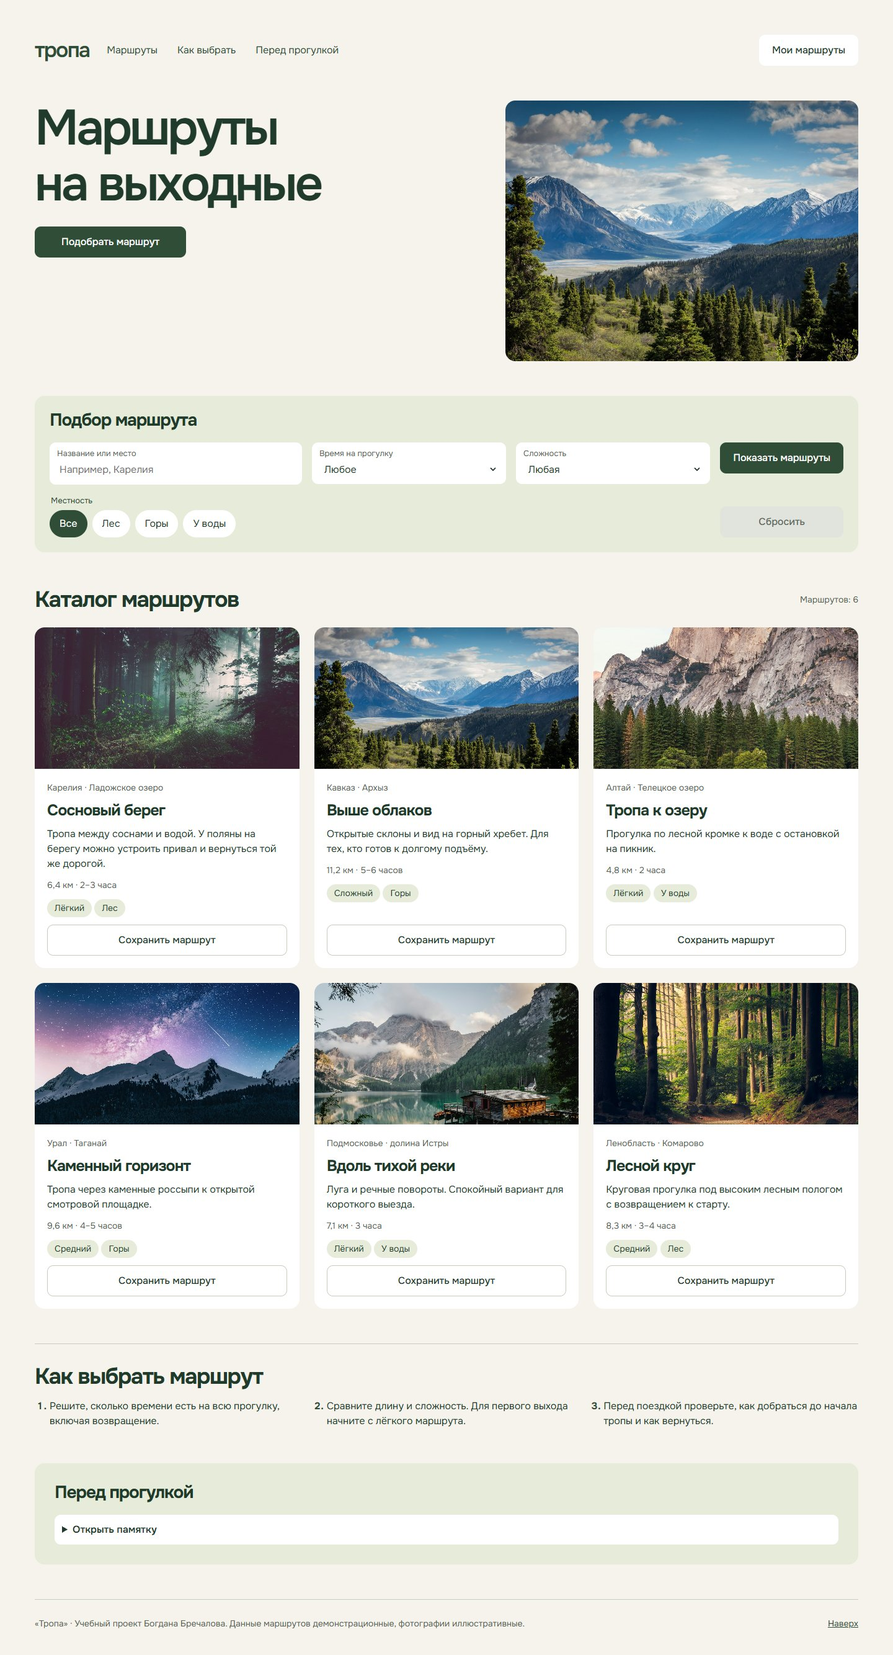
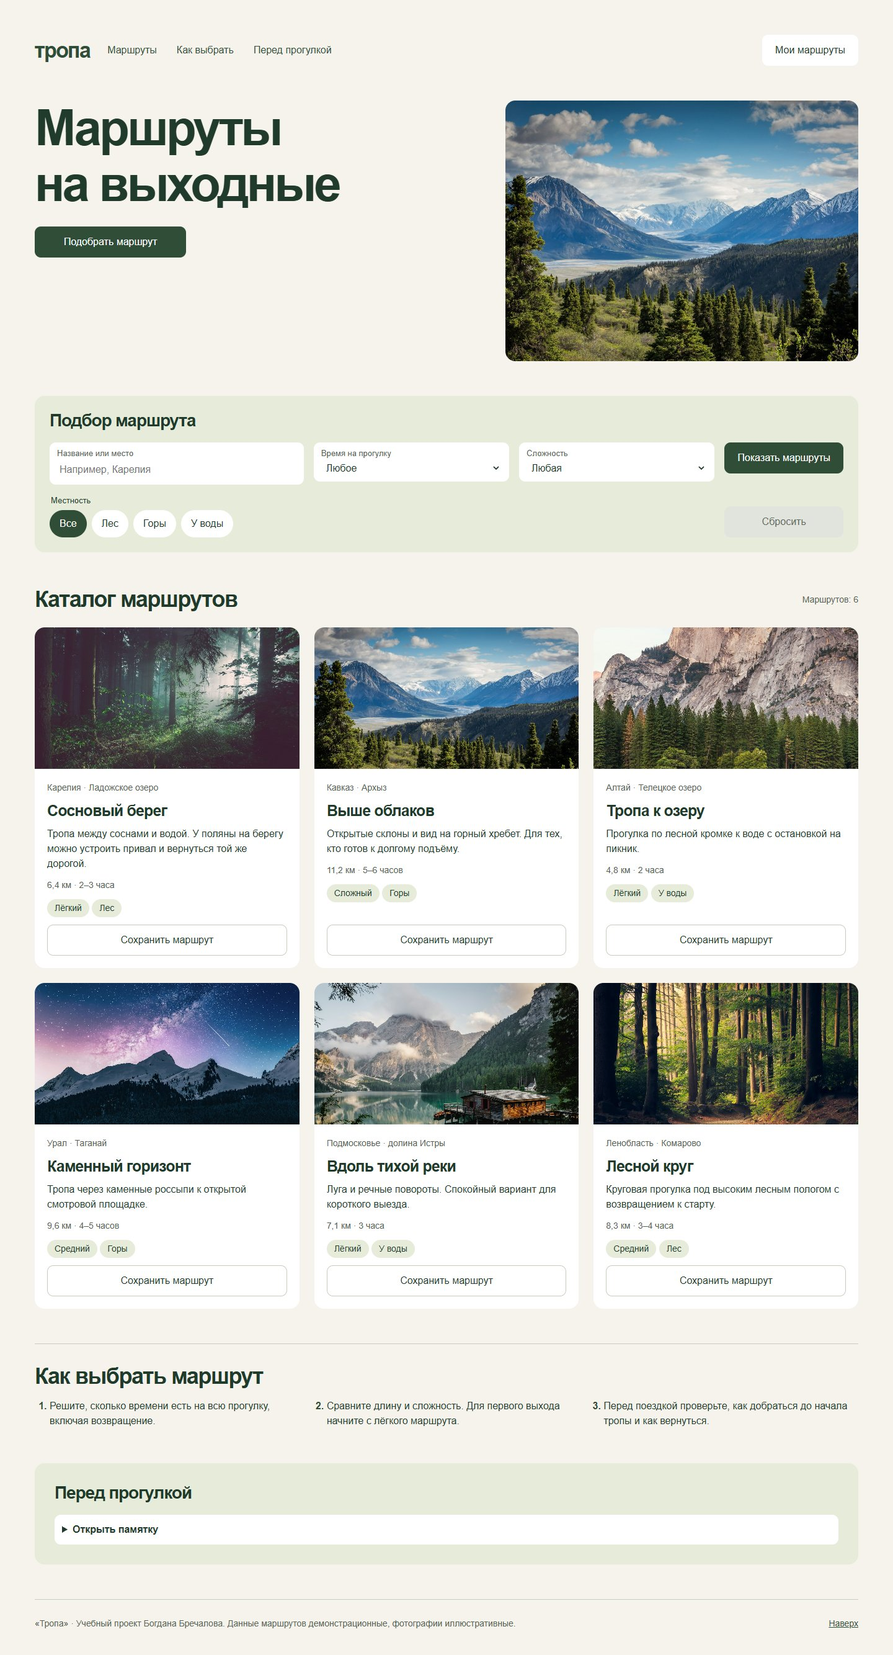
Исправить шрифт и добавить материалы проекта

diff --git a/css/style.css b/css/style.css
@@ -1,10 +1,3 @@
-@font-face {
-  font-family: Onest;
-  src: url("../fonts/onest.ttf") format("truetype");
-  font-weight: 100 900;
-  font-display: swap;
-}
-
 :root {
   --paper: #f5f3eb;
   --ink: #203b2b;
@@ -14,7 +7,7 @@
   --line: #c5cdbf;
   --white: #fff;
   --error: #95332c;
-  --font: Onest, Arial, sans-serif;
+  --font: Arial, "Segoe UI", sans-serif;
   --sm: 12px;
   --gap: 24px;
   --section: 56px;
@@ -304,7 +297,7 @@ button[type="reset"] {
 
 #count, .place, .facts {
   color: var(--muted);
-  font-size: 14px ;
+  font-size: 14px;
 }
 
 .cards {

diff --git a/ai-log.md b/ai-log.md
@@ -1,0 +1,107 @@
+# Отчёт об использовании ИИ
+
+**Проект:** «Тропа»  
+**Автор:** Бречалов Богдан  
+**Период работы:** 2 октября - 27 ноября 2026 года  
+**Инструмент:** OpenAI Codex
+
+Промпты ниже составлены для отчёта и кратко передают задачи, которые решались при разработке. Это не дословная выгрузка переписки.
+
+## Примерные промпты и результаты
+
+### Исследование и макет
+
+**Промпт 1.** «Помоги выбрать тему одностраничного сервиса для практической работы. Нужны desktop 1440 px и mobile 390 px, фильтры, карточки и состояние после действия пользователя».
+
+**Результат.** Выбрана тема прогулочных маршрутов на выходные. Определены четыре параметра выбора: место, время, сложность и тип местности.
+
+**Промпт 2.** «Опиши конкретную аудиторию сервиса: опыт пользователя, ограничения по времени и главные критерии выбора маршрута».
+
+**Результат.** Аудитория сужена до новичка, который выбирает прогулку на два-три часа и хочет заранее оценить нагрузку и обратный путь.
+
+**Промпт 3.** «Разбери интерфейсы AllTrails и komoot. Для каждого примера укажи удачное решение и то, как его можно применить в проекте “Тропа”».
+
+**Результат.** Для исследования подготовлены примеры каталога, карточки маршрута и последовательности пути. Выводы перенесены в Figma.
+
+**Промпт 4.** «Нарисуй user flow с ветками: маршруты найдены, ничего не найдено, маршрут сохранён, избранное пусто».
+
+**Результат.** Создан сценарий с точками выбора и отдельными состояниями для desktop и mobile.
+
+### HTML и адаптивная вёрстка
+
+**Промпт 5.** «Сверстай страницу по макету Figma обычными HTML и CSS. Используй header, nav, main, section и footer. Код должен быть понятен студенту».
+
+**Результат.** Созданы `index.html` и внешний файл `css/style.css`. На странице есть навигация, форма, каталог, памятка и подвал.
+
+**Промпт 6.** «Сделай сетку из трёх карточек на 1440 px, двух на планшете и одной на 375-390 px. Проверь длинные строки и горизонтальную прокрутку».
+
+**Результат.** Добавлены медиазапросы и адаптивные сетки. Страница проверена на ширинах 375, 390, 768, 1051, 1440 и 1920 px.
+
+**Промпт 7.** «Убери подписи и подзаголовки, которые повторяют уже понятный смысл: рекламную строку в первом экране, подпись поверх фотографии и вводную фразу перед памяткой».
+
+**Результат.** На странице оставлены только заголовки и подписи, которые помогают найти раздел или выполнить действие.
+
+### Практическая работа № 5
+
+**Промпт 8.** «Добавь минимум три интерактивные функции: поиск по названию и месту, совместную фильтрацию и избранное. Все обработчики должны находиться в `js/script.js`».
+
+**Результат.** Поиск и фильтры меняют состав каталога, избранное сохраняется в `localStorage`, памятка открывается повторным нажатием.
+
+**Промпт 9.** «Добавь состояния формы: `hover`, `focus-visible`, `active`, `disabled`, ошибку слишком длинного запроса и сообщение при пустой выдаче».
+
+**Результат.** Добавлена валидация запроса длиннее 80 символов, отключённая кнопка сброса и понятные пустые состояния.
+
+### Практическая работа № 6
+
+**Промпт 10.** «Перенеси шесть маршрутов в `data/data.json`, загрузи их через `fetch()` и создавай карточки из одного HTML-шаблона».
+
+**Результат.** В HTML больше нет шести копий карточек. Функция `loadRoutes()` загружает JSON, а `createCard()` заполняет шаблон и выводит маршруты.
+
+**Промпт 11.** «Обработай ошибку загрузки JSON. Покажи сообщение и кнопку повторной попытки, после которой каталог должен восстановиться без перезагрузки страницы».
+
+**Результат.** При ошибке HTTP появляется сообщение и кнопка «Загрузить ещё раз». В тесте запросу вернули статус 503, затем восстановили нормальный ответ.
+
+**Промпт 12.** «Проверь опубликованный сайт: JSON, поиск, совместные фильтры, сброс, избранное после перезагрузки, пустое состояние, мобильную версию и Console без ошибок».
+
+**Результат.** Подготовлены [GIF с демонстрацией](docs/demo.gif), [скриншот Console](docs/console.png) и полные скриншоты страницы на [1440 px](docs/desktop-1440.jpg) и [390 px](docs/mobile-390.jpg).
+
+### Исправление шрифта
+
+**Промпт 13.** «Исправь ошибку `downloadable font: download failed`, которая появляется при открытии распакованной копии сайта с диска».
+
+**Результат.** Загрузка локального `onest.ttf` удалена из CSS. Страница использует системные Arial и Segoe UI, поэтому браузер больше не пытается скачать шрифт через `file://`.
+
+## Использованные навыки Codex
+
+- **brainstorming** - выбор темы, аудитории и структуры проекта;
+- **figma-create-new-file** - создание файлов Figma;
+- **figma-use** - создание и изменение страниц, экранов и прототипных переходов;
+- **figma-generate-design** - сборка исследовательских, каркасных и финальных экранов;
+- **figma-generate-library** - UI-компоненты и состояния элементов;
+- **figma-design-to-code** - перенос решений из Figma в HTML и CSS;
+- **impeccable** и **design-taste-frontend** - визуальная и UX-проверка интерфейса;
+- **emil-design-eng** - работа с состояниями элементов и деталями взаимодействия;
+- **frontend-design** - адаптивная сетка и оформление веб-страницы;
+- **computer-use** - проверка в браузере и публикация на GitHub;
+- **pdf** - чтение заданий TASK 5 и TASK 6;
+- **documents** - подготовка паспорта проекта;
+- **systematic-debugging** - поиск причины ошибки шрифта и проверка загрузки JSON.
+
+## Как работает код
+
+`loadRoutes()` запрашивает JSON через `fetch()`. После успешного ответа `createCard()` копирует шаблон и заполняет его данными. `renderRoutes()` применяет поиск, фильтры и режим избранного, затем заменяет содержимое каталога. Обработчики событий запускают эти функции при отправке и сбросе формы, сохранении маршрута и повторной загрузке.
+
+## Проверка
+
+- JSON вернул HTTP 200 и создал шесть карточек;
+- поиск «берег» оставил один маршрут;
+- дополнительный фильтр «Горы» показал пустой результат;
+- лёгкая прогулка до трёх часов дала три результата;
+- избранное сохранилось после обновления страницы;
+- удаление последнего маршрута показало пустое избранное;
+- запрос длиннее 80 символов показал ошибку;
+- искусственная ошибка HTTP 503 показала сообщение, повторная попытка восстановила каталог;
+- на ширинах от 375 до 1920 px нет горизонтальной прокрутки;
+- критических ошибок в Console нет.
+
+**Ручные изменения.** Автор определил требования, выбрал тему и дал замечания по текстам и оформлению. Codex подготовил код, макеты, отчёт, тесты и публикацию. Автор может изменить формулировки отчёта, если хочет подробнее описать собственные правки.

diff --git a/README.md b/README.md
@@ -1,14 +1,21 @@
 # Тропа
 
-Учебный сайт для выбора прогулочного маршрута. «Цифровые медиа».
+Учебный сайт для выбора прогулочного маршрута. Бречалов Богдан, дисциплина «Цифровые медиа».
 
 **[Открыть сайт на GitHub Pages](https://void167.github.io/tropa-html/)**
 
-## Доп материалы
-- [Консоль браузера на опубликованном сайте](docs/console.png)
-- [Макет в Figma](https://www.figma.com/design/shdTFXNU6lG5ilggyVdC7s/?node-id=5-1356)
+[Скачать проект в ZIP](https://github.com/void167/tropa-html/archive/refs/heads/main.zip)
 
-## Проверка
+## Практические работы № 5 и 6
+
+- [Демонстрация на телефоне, GIF · 26 секунд](docs/demo.gif)
+- [Консоль браузера на опубликованном сайте](docs/console.png)
+- [Журнал работы с ИИ](ai-log.md)
+- [Паспорт проекта](docs/%D0%9F%D0%B0%D1%81%D0%BF%D0%BE%D1%80%D1%82%20%D0%BF%D1%80%D0%BE%D0%B5%D0%BA%D1%82%D0%B0%20%D0%A2%D1%80%D0%BE%D0%BF%D0%B0%20%D0%91%D1%80%D0%B5%D1%87%D0%B0%D0%BB%D0%BE%D0%B2%20%D0%91%D0%BE%D0%B3%D0%B4%D0%B0%D0%BD.docx)
+- [Макет в Figma](https://www.figma.com/design/shdTFXNU6lG5ilggyVdC7s/?node-id=5-1356)
+- Полная страница: [1440 px](docs/desktop-1440.jpg) и [390 px](docs/mobile-390.jpg).
+
+## Как проверить
 
 1. Введите «берег» и нажмите «Показать маршруты». Останется «Сосновый берег». Добавьте «Горы» и снова примените фильтр: совпадений нет.
 2. Сбросьте условия, выберите лёгкую прогулку до трёх часов. Подойдут три маршрута.
@@ -16,11 +23,20 @@
 4. Введите больше 80 символов в поиск. Поле покажет ошибку. Сократите запрос, чтобы продолжить.
 5. Раскройте памятку перед прогулкой повторным нажатием на её заголовок: она открывается и закрывается.
 
-Карточки загружаются из [data/data.json](data/data.json). В [index.html](index.html) оставлен один пустой шаблон. Загрузка, вывод карточек и обработчики поиска, фильтров и избранного находятся в [js/script.js](js/script.js). Памятка использует встроенный элемент HTML `details`
+Карточки загружаются из [data/data.json](data/data.json). В [index.html](index.html) оставлен один пустой шаблон. Загрузка, вывод карточек и обработчики поиска, фильтров и избранного находятся в [js/script.js](js/script.js). Памятка использует встроенный элемент HTML `details`.
 
-Чтобы проверить сбой загрузки, заблокируйте запрос к `data/data.json` в DevTools и обновите страницу. Снимите блокировку и нажмите «Загрузить ещё раз»
+Чтобы проверить сбой загрузки, заблокируйте запрос к `data/data.json` в DevTools и обновите страницу. Снимите блокировку и нажмите «Загрузить ещё раз». Каталог восстановится без перезагрузки страницы.
+
+Страница использует системные шрифты Arial и Segoe UI. Файлы шрифтов не загружаются, поэтому при открытии локальной копии не возникает предупреждение `downloadable font: download failed`.
 
 ## Локальный запуск
 
-Откройте папку в VS Code и выберите **Open with Live Server** для `index.html`. Ещё один вариант при установленном Node.js — `npx live-server --host=127.0.0.1`. Для `fetch` нужен HTTP-сервер
+Откройте папку в VS Code и выберите **Open with Live Server** для `index.html`. Ещё один вариант при установленном Node.js — `npx live-server --host=127.0.0.1`. Для `fetch` нужен HTTP-сервер.
 
+## Комментарий к вёрстке
+
+На компьютере в ряд помещаются три маршрута, на планшете два, на телефоне один. Самым тесным местом оказалась форма: на телефоне поля стоят друг под другом, а варианты местности переносятся на следующую строку.
+
+Вопрос для консультации: при открытии избранного лучше сохранить активные фильтры или сразу показать все сохранённые маршруты? Сейчас сохраняются условия последнего поиска.
+
+Маршруты демонстрационные. Фотографии иллюстративные.
